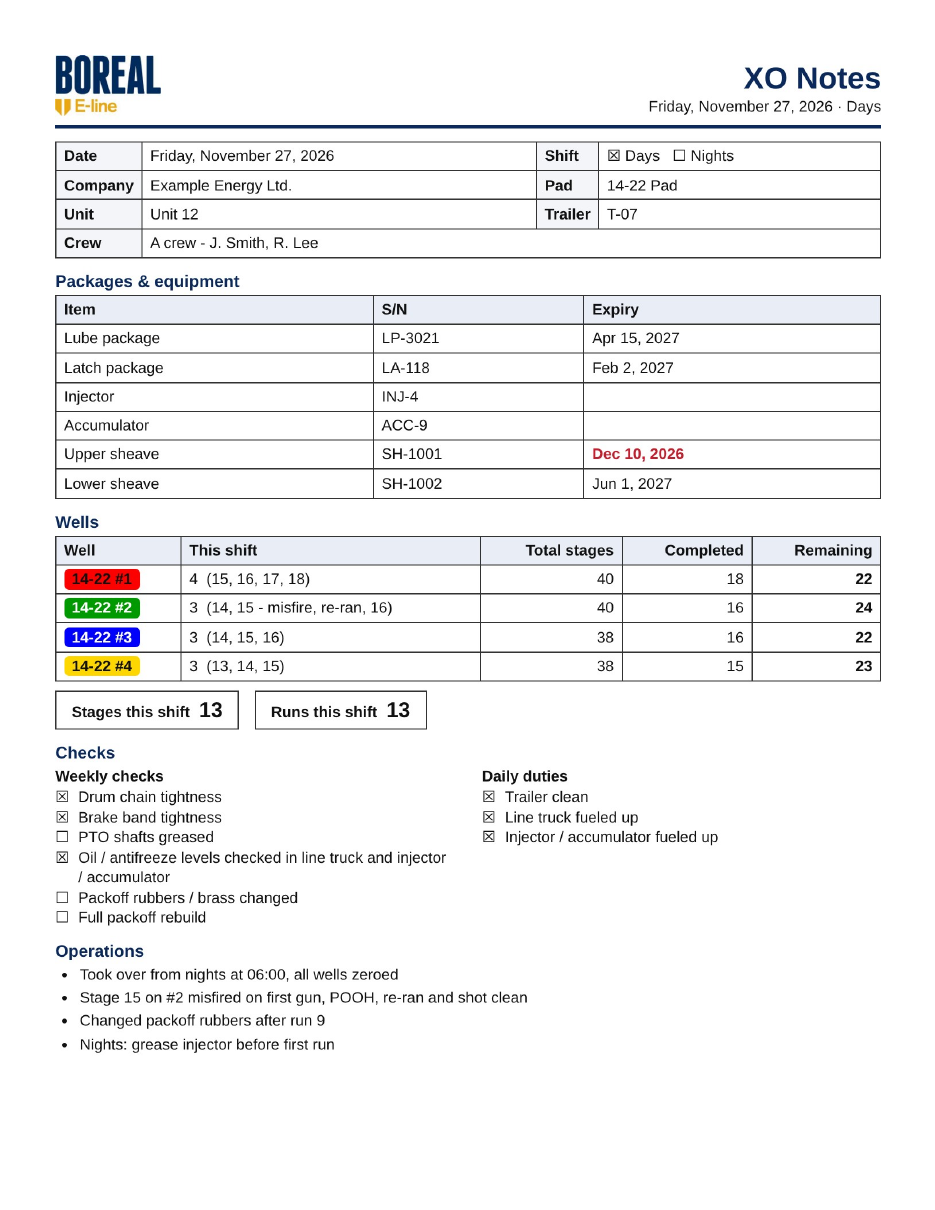
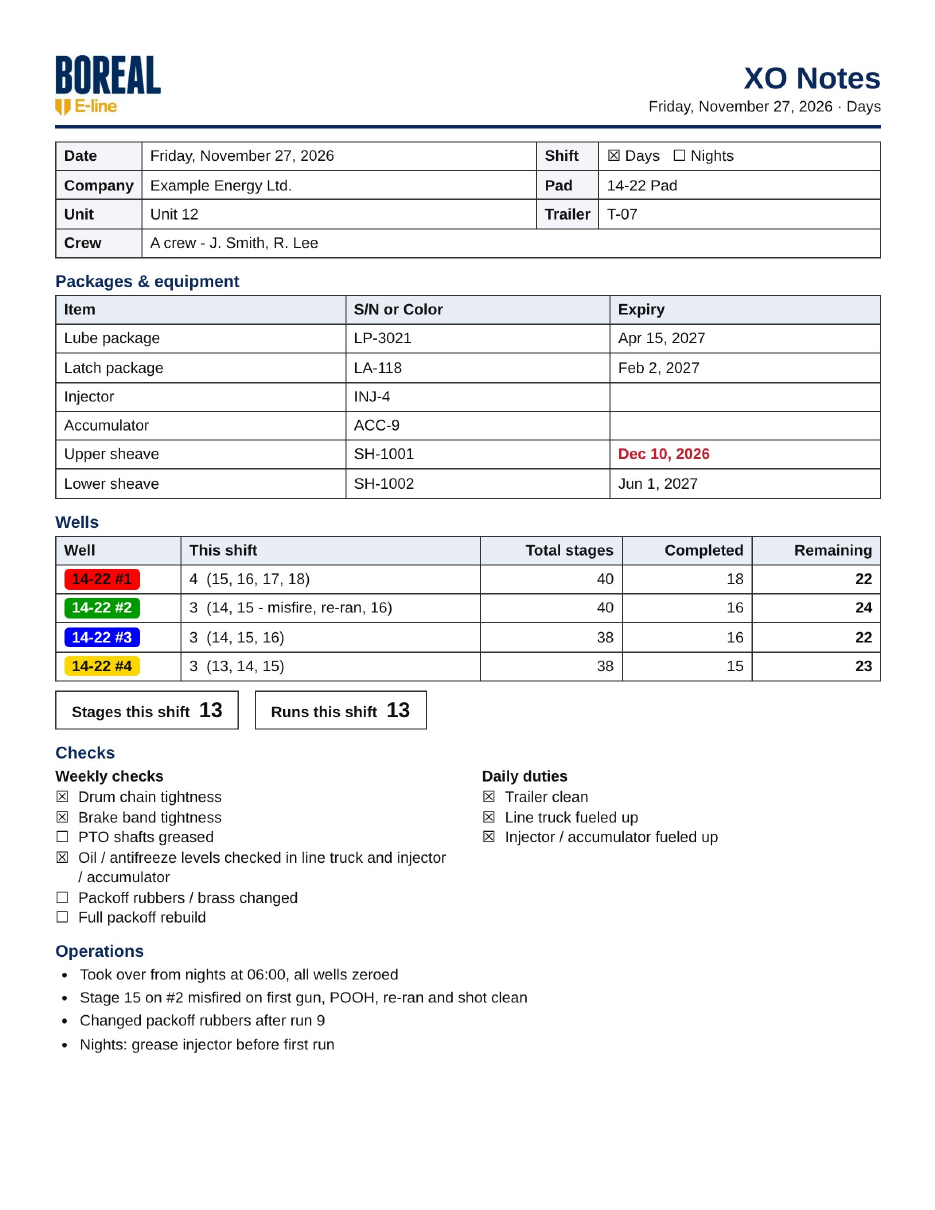
Label equipment S/N as 'S/N or Color'
Job Info boxes and the XO notes table header; email lines show the value
without the 'S/N' prefix so colours read naturally.

Claude-Session: https://claude.ai/code/session_01VgqTXvRicyLPoHF4HXncHg

Changed region(s): [[0.3722, 0.2446, 0.4652, 0.4281], [0.6203, 0.3669, 0.7754, 0.4281], [0.6203, 0.2446, 0.7444, 0.3364]]

diff --git a/index.html b/index.html
@@ -494,7 +494,7 @@ document.querySelector('#pJob').addEventListener('input',ev=>{const t=ev.target;
 const dueSoon=d=>d&&(new Date(d+'T12:00')-new Date())/864e5<30;
 function renderJe(){$('jeList').innerHTML=N(S).jobEq.map((e,i)=>`<div class="je ${dueSoon(e.exp)?'due':''}" data-i="${i}">
   <label class="nm2">Item<input data-je="name" value="${esc(e.name)}"></label>
-  <label>S/N<input data-je="sn" value="${esc(e.sn)}"></label>
+  <label>S/N or Color<input data-je="sn" value="${esc(e.sn)}"></label>
   <label>Expiry (if applicable)<input type="date" data-je="exp" value="${esc(e.exp)}"></label>
   <button class="x" data-je-del title="Remove" aria-label="Remove ${esc(e.name)}">✕</button></div>`).join('')||'<p class="hint">No items. Add packages, sheaves or other equipment.</p>'}
 $('jeList').addEventListener('input',ev=>{const t=ev.target;if(!t.dataset.je)return;const e=N(S).jobEq[t.closest('.je').dataset.i];e[t.dataset.je]=t.value;save();renderNotes();
@@ -526,7 +526,7 @@ function notesText(){const n=N(S),c=SD().checks,L=[];
   L.push('XO NOTES - '+today()+' - '+SH[VS]);
   L.push('Company: '+(n.company||''),'Pad: '+(n.pad||''),'Crew: '+(SD().crew||''),'');
   L.push('Unit: '+(n.unit||'')+'    Trailer: '+(n.trailer||''));
-  (n.jobEq||[]).forEach(e=>{if(e.sn||e.exp)L.push(e.name+': S/N '+(e.sn||'-')+(e.exp?' (exp '+fmtD(e.exp)+')':''))});L.push('');
+  (n.jobEq||[]).forEach(e=>{if(e.sn||e.exp)L.push(e.name+': '+(e.sn||'-')+(e.exp?' (exp '+fmtD(e.exp)+')':''))});L.push('');
   L.push('STAGES - '+SH[VS]+': '+S.wells.reduce((a,w)=>a+cnt(shiftStages(w)),0)+'    RUNS: '+SD().runs);
   S.wells.forEach(w=>{const st=shiftStages(w);L.push(w.name+(w.color?' ('+(WCOLORS.find(c=>c[0]===w.color)||['',''])[1]+')':'')+': this shift '+cnt(st)+(st.length?' ('+st.map(s=>s.num+(s.note?' - '+s.note:'')).join(', ')+')':'')+' | completed '+done(w)+(w.total?' of '+w.total+' | remaining '+rem(w):''))});
   L.push('','WEEKLY CHECKS');S.lists.weekly.forEach(x=>L.push((c[x.id]?'[x] ':'[ ] ')+x.t));
@@ -552,7 +552,7 @@ function buildDoc(){const n=N(S),c=SD().checks,e=esc,box=v=>v?'☒':'☐';
   <tr><td class="k">Company</td><td>${e(n.company)}</td><td class="k">Pad</td><td>${e(n.pad)}</td></tr>
   <tr><td class="k">Unit</td><td>${e(n.unit)}</td><td class="k">Trailer</td><td>${e(n.trailer)}</td></tr>
   <tr><td class="k">Crew</td><td colspan="3">${e(SD().crew)}</td></tr></table>
-  ${eq.length?`<h2>Packages &amp; equipment</h2><table><tr><th>Item</th><th>S/N</th><th>Expiry</th></tr>${eq.map(x=>`<tr><td>${e(x.name)}</td><td>${e(x.sn)}</td><td class="${dueSoon(x.exp)?'ex':''}">${e(fmtD(x.exp))}</td></tr>`).join('')}</table>`:''}
+  ${eq.length?`<h2>Packages &amp; equipment</h2><table><tr><th>Item</th><th>S/N or Color</th><th>Expiry</th></tr>${eq.map(x=>`<tr><td>${e(x.name)}</td><td>${e(x.sn)}</td><td class="${dueSoon(x.exp)?'ex':''}">${e(fmtD(x.exp))}</td></tr>`).join('')}</table>`:''}
   <h2>Wells</h2><table><tr><th>Well</th><th>This shift</th><th class="r">Total stages</th><th class="r">Completed</th><th class="r">Remaining</th></tr>
   ${S.wells.map(w=>{const st=shiftStages(w);return`<tr><td>${chip(w)}</td><td>${cnt(st)}${st.length?' &nbsp;('+st.map(x=>e(x.num)+(x.note?' - '+e(x.note):'')).join(', ')+')':''}</td><td class="r">${e(w.total||'')}</td><td class="r">${done(w)}</td><td class="r"><b>${rem(w)}</b></td></tr>`}).join('')}</table>
   <div class="tot"><div>Stages this shift<b>${S.wells.reduce((a,w)=>a+cnt(shiftStages(w)),0)}</b></div><div>Runs this shift<b>${SD().runs}</b></div></div>

diff --git a/help.html b/help.html
@@ -100,7 +100,7 @@ footer{color:var(--mute);font-size:14px;padding:10px 0 40px}
   <figure><img src="help/job-info.png" alt="Job Info tab with unit, company, pad and the packages and equipment list"></figure>
   <ul>
     <li><b>Unit, Company, Pad</b> make up the email subject, for example "Unit 12 Example Energy Ltd. 14-22 Pad XO Notes".</li>
-    <li><b>Packages &amp; equipment</b>: S/N for the lube package, latch package, injector, accumulator and sheaves, and an expiry date <b>if it has one</b>. <span class="key">+ Add equipment</span> adds a row; <b>✕</b> removes one.</li>
+    <li><b>Packages &amp; equipment</b>: S/N or color for the lube package, latch package, injector, accumulator and sheaves, and an expiry date <b>if it has one</b>. <span class="key">+ Add equipment</span> adds a row; <b>✕</b> removes one.</li>
     <li>An expiry date <b>within 30 days turns red</b>, here and on the printed XO notes.</li>
     <li>Only items with an S/N or date filled in go on the XO notes.</li>
   </ul>
